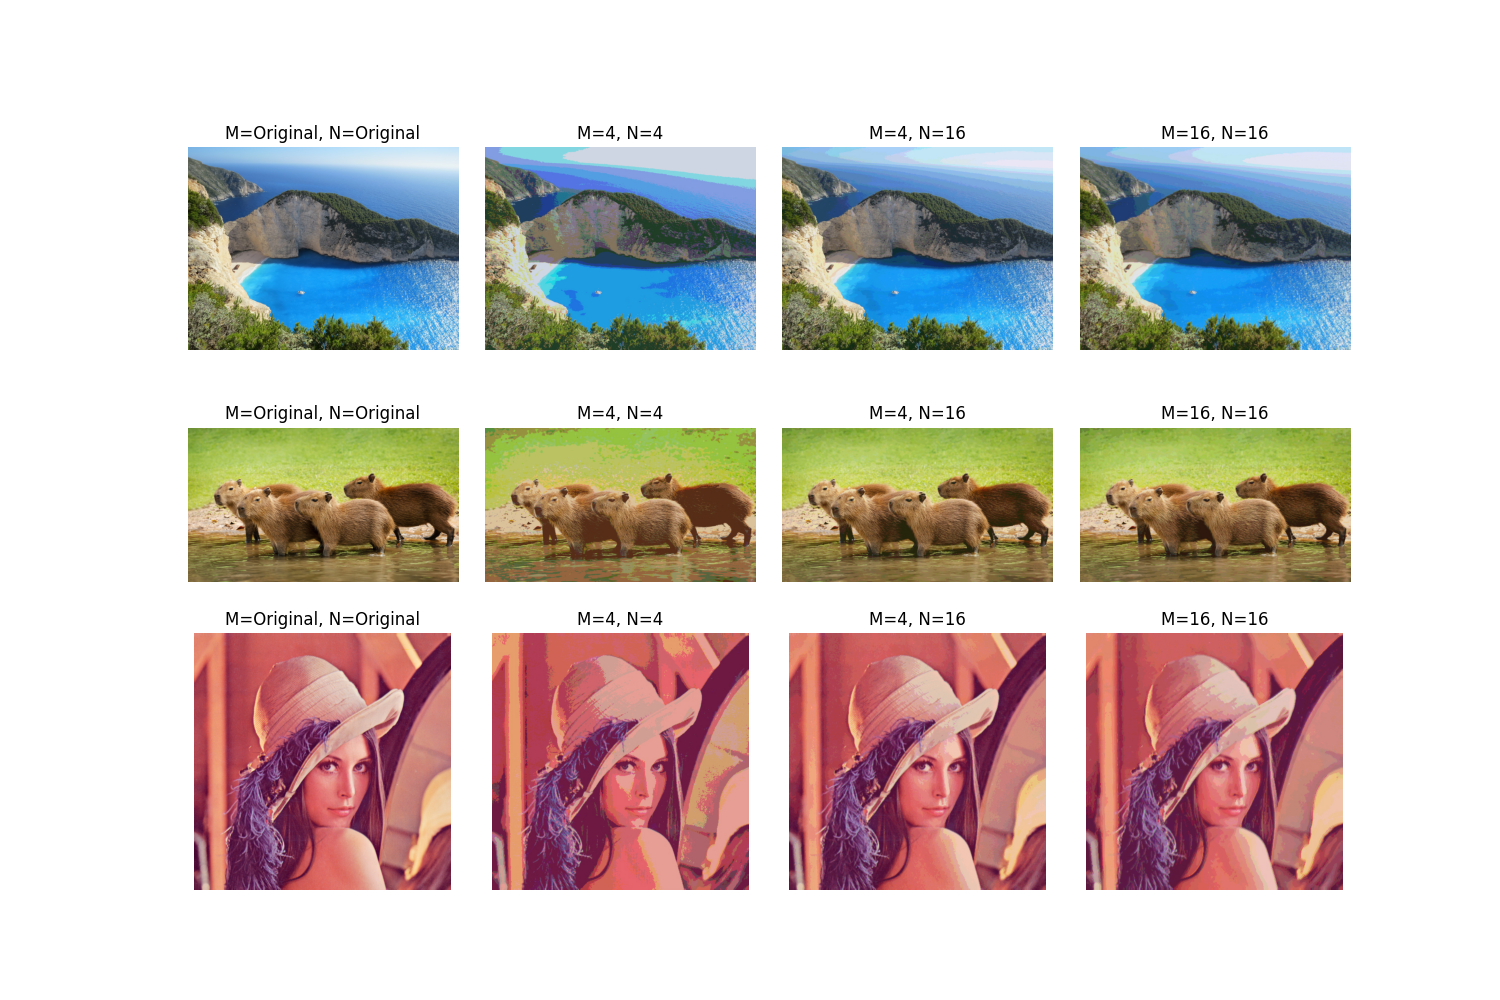
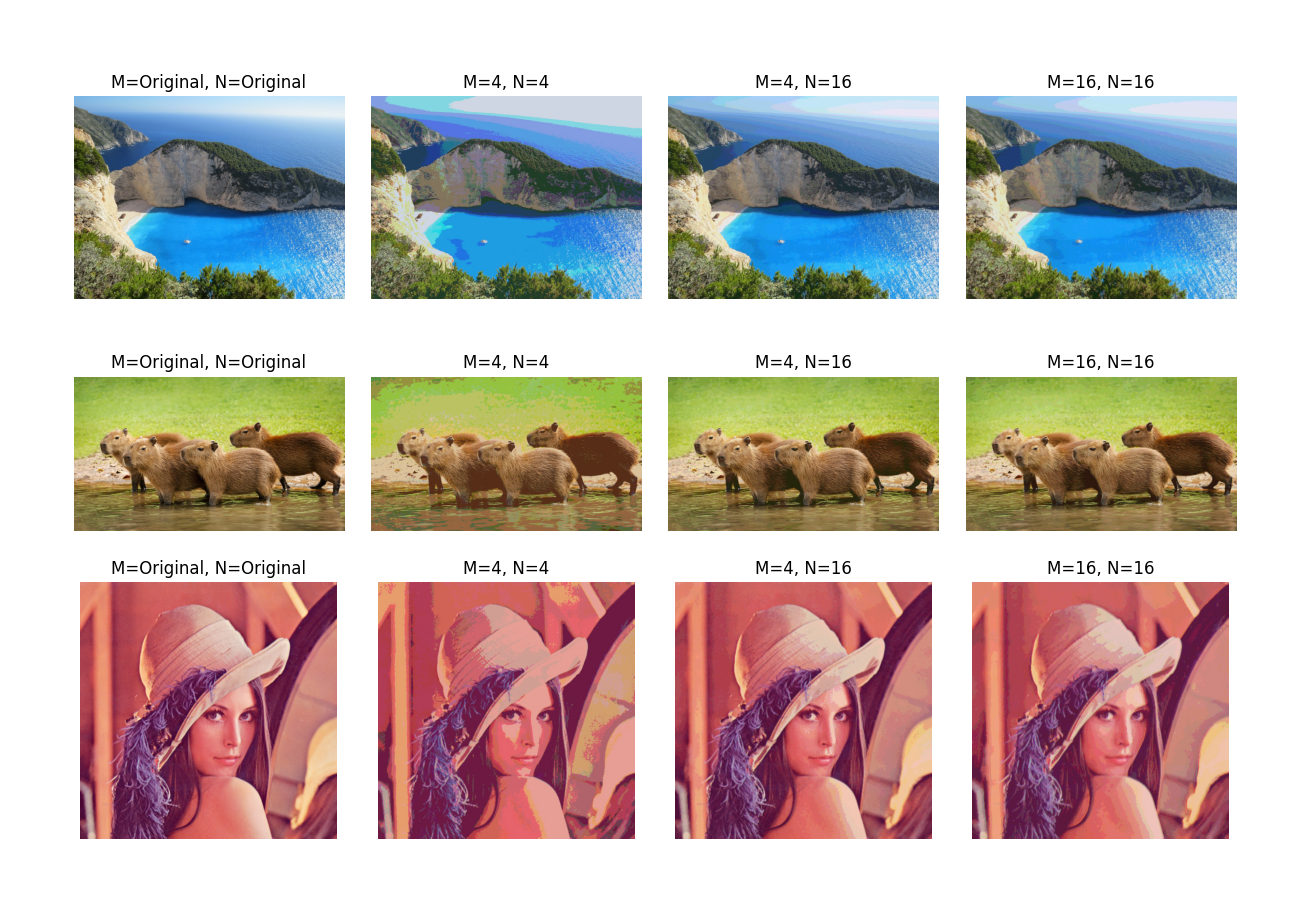
update report

diff --git a/README.md b/README.md
@@ -283,8 +283,8 @@ Due to conducting tests with 54 different data sets on Carc to evaluate the para
 - These analyses provide insights into how parallel algorithms perform in real-world settings and can assist decision-makers in making more informed resource allocation decisions when deploying similar algorithms.
 
 #### Influence of different images on the efficiency and quality of parallelization.:
-![Comparison2](Extras/comparison2.png)
-![Comparison2_2](Extras/comparison2_2.png)
+![Comparison2](Extras/comparison2.png){: .center}
+![Comparison2_2](Extras/comparison2_2.png){: .center}
 
 - The `Capybara` image shows the most significant reduction in compression time with a negligible change in compression ratio, indicating that parallel optimization was highly effective for this image. This suggests that images similar to the Capybara one, which likely contains large uniform regions, benefit greatly from parallel optimization in terms of speed, without sacrificing the quality of compression.
 
